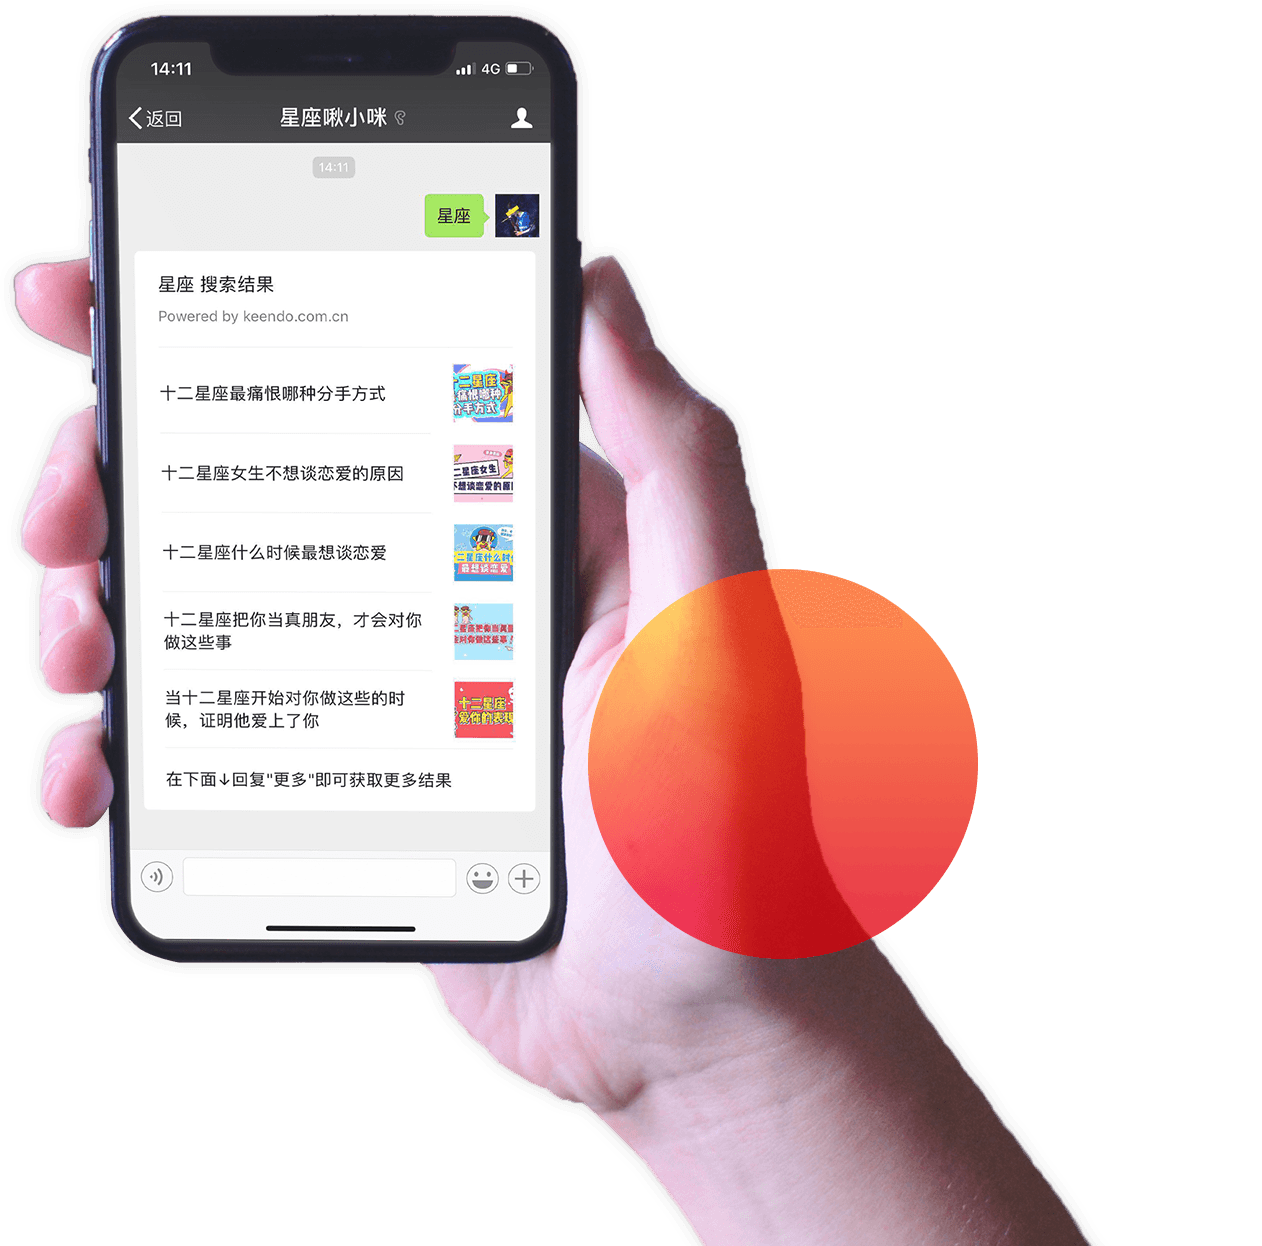
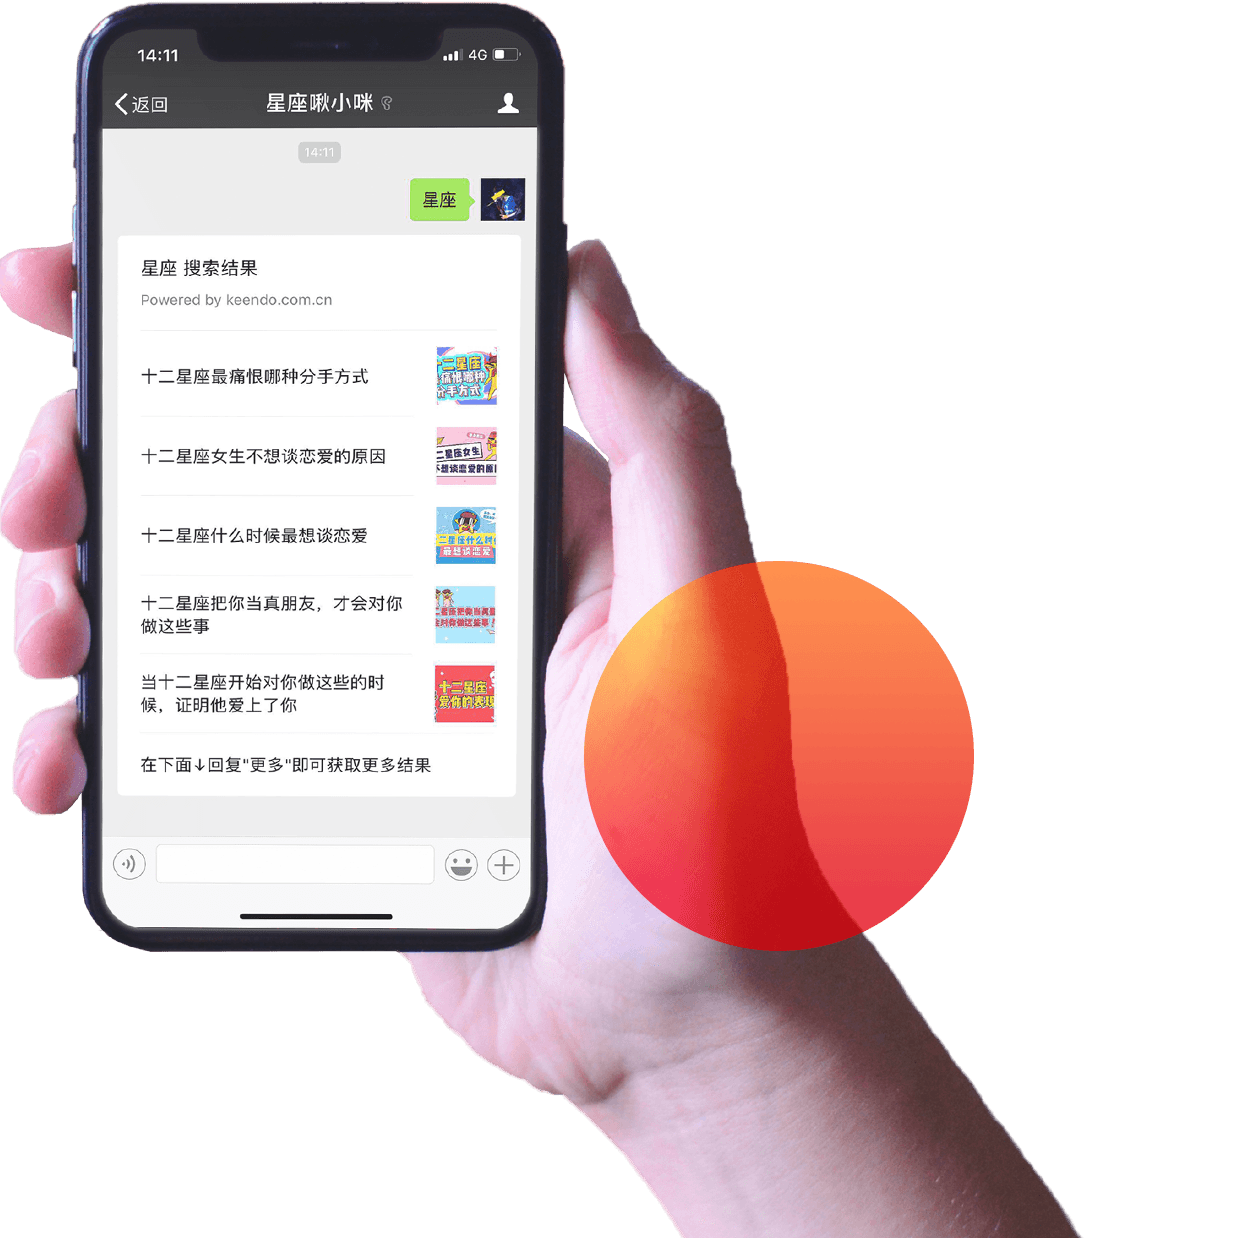
修改portal首页样式

diff --git a/WebRoot/res/portal/css/new_index.css b/WebRoot/res/portal/css/new_index.css
@@ -60,6 +60,7 @@ html, body {
     width: 100%;
     height: 100%;
     overflow: hidden;
+    font-size: 14px;
     font-family: "PingFang SC", "Hiragino Sans GB", "Microsoft YaHei", "WenQuanYi Micro Hei", sans-serif;
 }
 
@@ -107,6 +108,7 @@ body > .login > button {
     text-align: center;
     padding: 23px 0;
     color: #fefefe;
+    font-size: 14px;
     border: none;
     cursor: pointer;
     float: right;
@@ -148,10 +150,10 @@ body > .login > button {
     left: 50%;
     margin-left: -242px;
     height: 34px;
-    transition: all 1s linear;
-    -moz-transition: all 1s linear;
-    -webkit-transition: all 1s linear;
-    -o-transition: all 1s linear;
+    transition: top 1s linear;
+    -moz-transition: top 1s linear;
+    -webkit-transition: top 1s linear;
+    -o-transition: top 1s linear;
     z-index: 60;
 }
 
@@ -214,7 +216,6 @@ body > .login > button {
     left: 2.4%;
 }
 
-/*625  617*/
 #img_box .circle {
     position: absolute;
     bottom: 6.2%;
